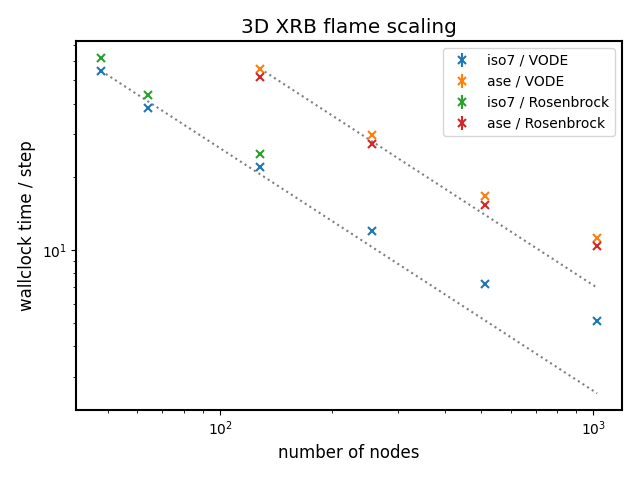
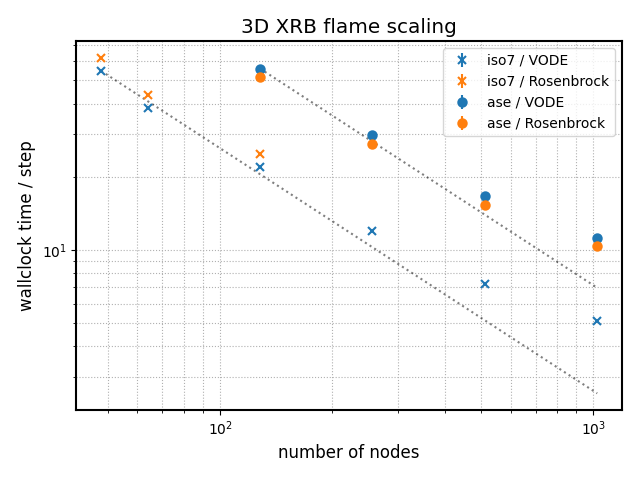
more

diff --git a/Exec/science/flame_wave/scaling/frontier/frontier_scaling.py b/Exec/science/flame_wave/scaling/frontier/frontier_scaling.py
@@ -42,16 +42,16 @@ def trend_line(c, t):
 fig, ax = plt.subplots(1)
 
 ax.errorbar(frontier_iso7_vode_nodes, frontier_iso7_vode_times, yerr=frontier_iso7_vode_std,
-            ls="None", marker="x", label="iso7 / VODE")
-
-ax.errorbar(frontier_ase_vode_nodes, frontier_ase_vode_times, yerr=frontier_ase_vode_std,
-            ls="None", marker="x", label="ase / VODE")
+            ls="None", marker="x", color="C0", label="iso7 / VODE")
 
 ax.errorbar(frontier_iso7_rosenbrock_nodes, frontier_iso7_rosenbrock_times, yerr=frontier_iso7_rosenbrock_std,
-            ls="None", marker="x", label="iso7 / Rosenbrock")
+            ls="None", marker="x", color="C1", label="iso7 / Rosenbrock")
+
+ax.errorbar(frontier_ase_vode_nodes, frontier_ase_vode_times, yerr=frontier_ase_vode_std,
+            ls="None", marker="o", color="C0", label="ase / VODE")
 
 ax.errorbar(frontier_ase_rosenbrock_nodes, frontier_ase_rosenbrock_times, yerr=frontier_ase_rosenbrock_std,
-            ls="None", marker="x", label="ase / Rosenbrock")
+            ls="None", marker="o", color="C1", label="ase / Rosenbrock")
 
 c, t = trend_line(frontier_iso7_vode_nodes, frontier_iso7_vode_times)
 ax.plot(c, t, alpha=0.5, linestyle=":", color="k")
@@ -69,6 +69,8 @@ ax.set_yscale("log")
 ax.legend(fontsize="small")
 
 ax.set_title("3D XRB flame scaling")
+
+ax.grid(ls=":", which="both")
 
 fig.tight_layout()
 fig.savefig("frontier_flame_wave_scaling.png")